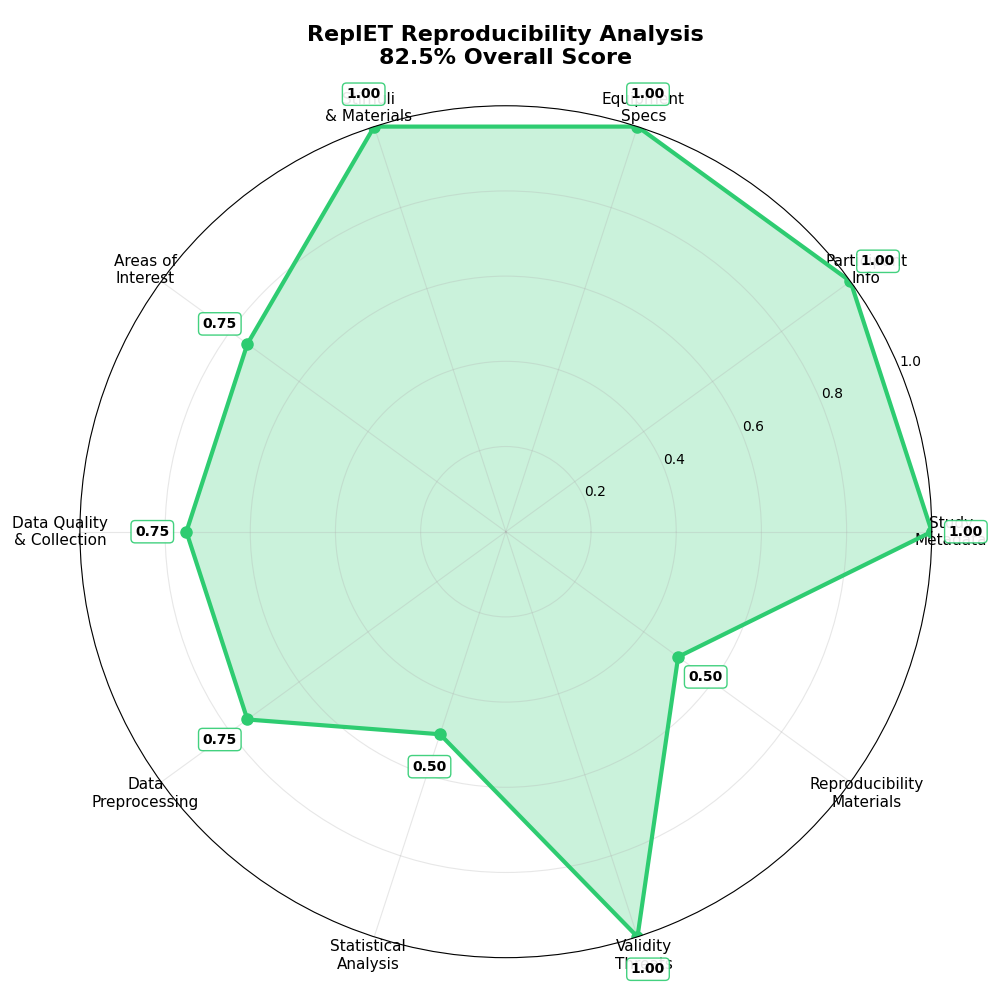
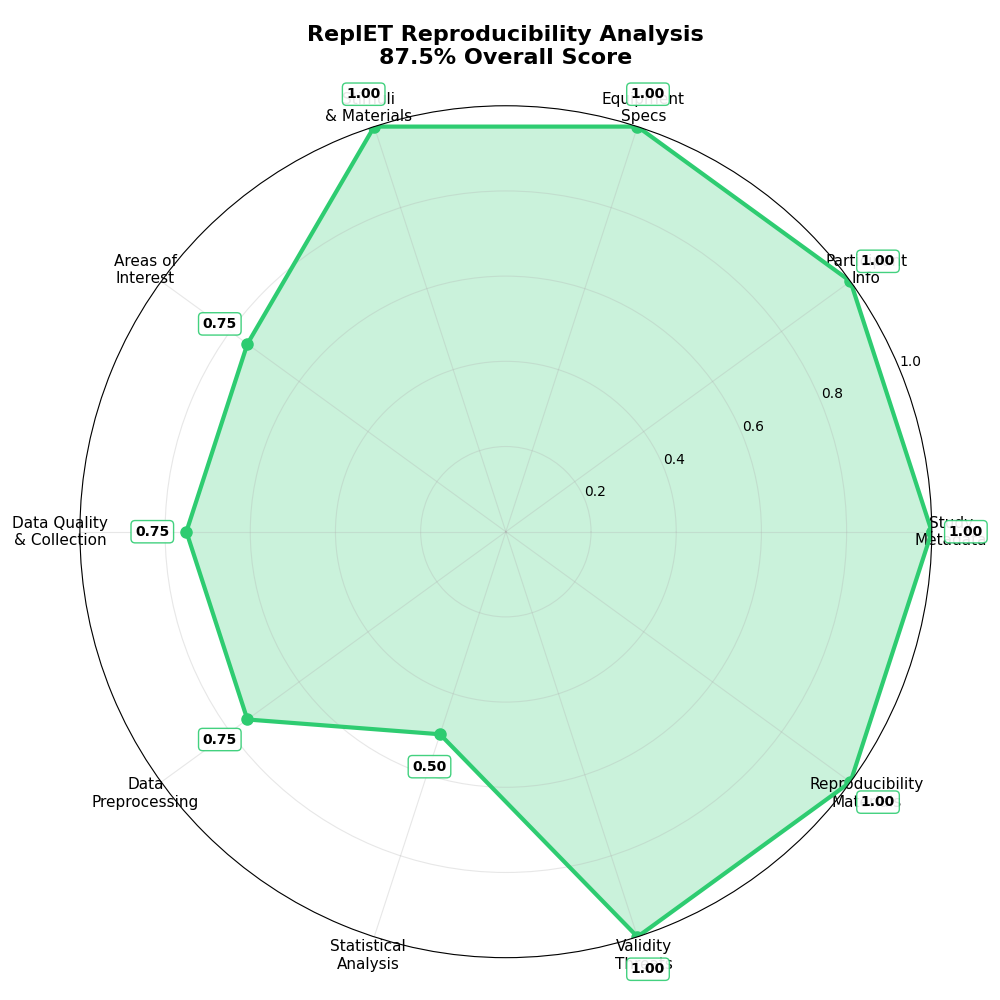
feat: adapt scripts and readme

Changed region(s): [[0.62, 0.527, 0.93, 0.93]]

diff --git a/utils/repl_et_score.py b/utils/repl_et_score.py
@@ -7,7 +7,7 @@ import numpy as np
 
 def check_metadata():
     try:
-        with open("ReplET/metadata.json") as f:
+        with open("metadata.json") as f:
             data = json.load(f)
         required = ["study_title", "paradigm", "task_description"]
         if all(k in data and data[k] for k in required):
@@ -20,7 +20,7 @@ def check_metadata():
         return 0
 
 def check_participants():
-    path = "ReplET/participants/participants.json"
+    path = "participants/participants.json"
     if not os.path.exists(path):
         return 0
     try:
@@ -39,7 +39,7 @@ def check_participants():
         return 0
 
 def check_equipment():
-    files = ["ReplET/equipment/tracker_specs.json", "ReplET/equipment/screen_setup.json", "ReplET/equipment/software_env.json"]
+    files = ["equipment/tracker_specs.json", "equipment/screen_setup.json", "equipment/software_env.json"]
     found = sum(os.path.exists(f) for f in files)
     if found == 3:
         return 1.0
@@ -51,9 +51,9 @@ def check_equipment():
         return 0
 
 def check_stimuli():
-    meta = "ReplET/stimuli/stimuli_metadata.json"
-    ann = "ReplET/stimuli/stimuli_annotations.json"
-    raw = "ReplET/stimuli/stimuli_raw"
+    meta = "stimuli/stimuli_metadata.json"
+    ann = "stimuli/stimuli_annotations.json"
+    raw = "stimuli/stimuli_raw"
     score = 0
     if os.path.exists(meta):
         score += 0.4
@@ -64,8 +64,8 @@ def check_stimuli():
     return min(score, 1.0)
 
 def check_aois():
-    aois = "ReplET/aois/aois_definition.json"
-    vis = "ReplET/aois/aois_visualizations"
+    aois = "aois/aois_definition.json"
+    vis = "aois/aois_visualizations"
     if os.path.exists(aois):
         if os.path.isdir(vis) and len(os.listdir(vis)) > 0:
             return 1.0
@@ -75,8 +75,8 @@ def check_aois():
         return 0
 
 def check_data_quality():
-    proto = "ReplET/collection/protocol.json"
-    logs = "ReplET/collection/logs"
+    proto = "collection/protocol.json"
+    logs = "collection/logs"
     if os.path.exists(proto):
         if os.path.isdir(logs) and len(os.listdir(logs)) > 0:
             return 1.0
@@ -86,8 +86,8 @@ def check_data_quality():
         return 0
 
 def check_preprocessing():
-    pre = "ReplET/preprocessing/preprocessing.json"
-    scripts = "ReplET/preprocessing/scripts"
+    pre = "preprocessing/preprocessing.json"
+    scripts = "preprocessing/scripts"
     if os.path.exists(pre):
         if os.path.isdir(scripts) and len(os.listdir(scripts)) > 0:
             return 1.0
@@ -97,20 +97,20 @@ def check_preprocessing():
         return 0
 
 def check_analysis():
-    ana = "ReplET/analysis/analysis.json"
-    tables = "ReplET/analysis/results_tables"
-    vis = "ReplET/analysis/visualizations"
+    ana = "analysis/analysis.json"
+    tables = "analysis/results_tables"
+    vis = "analysis/visualizations"
     score = 0
     if os.path.exists(ana):
         score += 0.5
-    if os.path.isdir(tables) and len(os.listdir(tables)) > 0:
+    if os.path.exists(tables) and len(os.listdir(tables)) > 0:
         score += 0.25
-    if os.path.isdir(vis) and len(os.listdir(vis)) > 0:
+    if os.path.exists(vis) and len(os.listdir(vis)) > 0:
         score += 0.25
     return min(score, 1.0)
 
 def check_threats():
-    val = "ReplET/validity/validity.json"
+    val = "validity/validity.json"
     if os.path.exists(val):
         with open(val) as f:
             data = json.load(f)
@@ -122,7 +122,7 @@ def check_threats():
         return 0
 
 def check_reproducibility():
-    files = ["ReplET/README.md", "ReplET/LICENSE", "ReplET/reproducibility/environment.yml", "ReplET/reproducibility/CITATION.cff", "ReplET/repl_et_checklist.md"]
+    files = ["README.md", "LICENSE", "reproducibility/reproducibility.json", "CITATION.cff"]
     found = sum(os.path.exists(f) for f in files)
     if found == len(files):
         return 1.0
@@ -134,6 +134,123 @@ def check_reproducibility():
         return 0.25
     else:
         return 0
+
+def update_readme_with_assessment(scores, overall_score, png_path):
+    """Update README.md with current assessment results"""
+    try:
+        # Map scores to readable names
+        score_mapping = {
+            "metadata": "Study Metadata",
+            "participants": "Participant Info", 
+            "equipment": "Equipment Specs",
+            "stimuli": "Stimuli & Materials",
+            "aois": "Areas of Interest",
+            "data_quality": "Data Quality & Collection",
+            "preprocessing": "Data Preprocessing",
+            "analysis": "Statistical Analysis",
+            "threats": "Validity Assessment",
+            "reproducibility": "Reproducibility Materials"
+        }
+        
+        # Calculate compliance
+        compliant_criteria = sum(1 for score in scores.values() if score > 0.8)
+        total_criteria = len(scores)
+        compliance_percentage = (compliant_criteria / total_criteria) * 100 if total_criteria > 0 else 0
+        
+        # Determine status
+        if compliance_percentage >= 80:
+            template_status = "Complete"
+            result_message = "Publication Ready"
+        elif compliance_percentage >= 50:
+            template_status = "In Progress"  
+            result_message = "Good Progress"
+        else:
+            template_status = "Starting"
+            result_message = "Empty Template" if compliance_percentage < 30 else "Basic Setup"
+        
+        # Generate checklist markdown
+        checklist_items = []
+        for component, score in scores.items():
+            status = "✅" if score > 0.8 else "⚠" if score > 0.5 else "❌"
+            readable_name = score_mapping.get(component, component.replace("_", " ").title())
+            checklist_items.append(f"- {status} **{readable_name}**: {score*100:.1f}%")
+        
+        checklist_md = f"""## 📋 Compliance Checklist
+
+**Status**: {template_status} ({result_message})  
+**Overall Compliance**: {compliant_criteria}/{total_criteria} criteria met ({compliance_percentage:.1f}%)
+
+### Component Scores:
+{chr(10).join(checklist_items)}
+
+### Legend:
+- ✅ **Complete** (>80%): Publication ready
+- ⚠ **Partial** (50-80%): Good progress, needs refinement  
+- ❌ **Missing** (<50%): Requires attention
+
+---
+"""
+        
+        # Generate scores table
+        rows = []
+        for component, score in scores.items():
+            readable_name = score_mapping.get(component, component.replace("_", " ").title())
+            rows.append(f"| {readable_name} | {score*100:.1f}% |")
+        
+        scores_table_md = f"""
+| Study Component | Score |
+|----------------|-------|
+{chr(10).join(rows)}
+| **Overall Study Score** | **{overall_score*100:.1f}%** |
+"""
+        
+        # Read current README
+        readme_path = 'README.md'
+        if os.path.exists(readme_path):
+            with open(readme_path, 'r', encoding='utf-8') as f:
+                content = f.read()
+        else:
+            content = "# Study Assessment\n\n"
+        
+        # Update checklist section
+        import re
+        checklist_pattern = r'(## 📋 Compliance Checklist.*?)(?=##|\Z)'
+        if re.search(checklist_pattern, content, re.DOTALL):
+            content = re.sub(checklist_pattern, checklist_md + '\n', content, flags=re.DOTALL)
+        else:
+            # Find the Template Compliance Analysis section and add after it
+            template_section = "## Template Compliance Analysis"
+            if template_section in content:
+                content = content.replace(template_section, template_section + '\n\n' + checklist_md)
+            else:
+                content += '\n' + checklist_md + '\n'
+        
+        # Update scores table section  
+        scores_pattern = r'(\| Study Component \| Score.*?\*\*Overall Study Score.*?\*\*[^\n]*)'
+        if re.search(scores_pattern, content, re.DOTALL):
+            content = re.sub(scores_pattern, scores_table_md.strip(), content, flags=re.DOTALL)
+        else:
+            # Add scores table after checklist
+            content += '\n' + scores_table_md + '\n'
+        
+        # Update spider graph image
+        spider_pattern = r'!\[Reproducibility Spider Graph\]\([^)]+\)'
+        spider_replacement = f'![Reproducibility Spider Graph]({png_path})'
+        if re.search(spider_pattern, content):
+            content = re.sub(spider_pattern, spider_replacement, content)
+        else:
+            content += f'\n{spider_replacement}\n'
+        
+        # Write updated README
+        with open(readme_path, 'w', encoding='utf-8') as f:
+            f.write(content)
+        
+        print(f"📝 README.md updated with assessment results!")
+        print(f"📊 Compliance: {compliant_criteria}/{total_criteria} ({compliance_percentage:.1f}%)")
+        print(f"🏷 Status: {template_status}")
+        
+    except Exception as e:
+        print(f"⚠ Warning: Could not update README: {e}")
 
 def main():
     scores = {
@@ -149,10 +266,10 @@ def main():
         "reproducibility": check_reproducibility()
     }
     
-    # Create temporary output directory
-    import tempfile
+    # Create output directory
     import os
-    output_dir = tempfile.mkdtemp(prefix="replet_report_")
+    output_dir = "outputs"
+    os.makedirs(output_dir, exist_ok=True)
     
     # Salva JSON
     json_path = os.path.join(output_dir, "report.json")
@@ -241,6 +358,9 @@ def main():
     # Calculate overall score
     overall_score = sum(scores.values()) / len(scores)
     print(f"\n🏆 Overall Reproducibility Score: {overall_score:.3f}/1.0 ({overall_score*100:.1f}%)")
+    
+    # Update README with assessment
+    update_readme_with_assessment(scores, overall_score, png_path)
 
 if __name__ == "__main__":
     main() 

diff --git a/README.md b/README.md
@@ -4,71 +4,42 @@ EMIP (Eye Movement in Programming) dataset converted to the standardized REPL.et
 
 ## Template Compliance Analysis
 
-Run `python3 utils/update_readme_with_assessment.py` to update this analysis with your current template status.
+## 📋 Compliance Checklist
 
-### Research Standards Compliance
+**Status**: In Progress (Good Progress)  
+**Overall Compliance**: 6/10 criteria met (60.0%)
 
-```
-TEMPLATE COMPLIANCE STATUS
+### Component Scores:
+- ✅ **Study Metadata**: 100.0%
+- ✅ **Participant Info**: 100.0%
+- ✅ **Equipment Specs**: 100.0%
+- ✅ **Stimuli & Materials**: 100.0%
+- ⚠ **Areas of Interest**: 75.0%
+- ⚠ **Data Quality & Collection**: 75.0%
+- ⚠ **Data Preprocessing**: 75.0%
+- ❌ **Statistical Analysis**: 50.0%
+- ✅ **Validity Assessment**: 100.0%
+- ✅ **Reproducibility Materials**: 100.0%
 
-FAIR Principles                    iGuidelines Compliance
-├─ [ ] Findable (JSON + metadata)      ├─ [ ] Participant templates
-├─ [ ] Accessible (open formats)       ├─ [ ] Calibration procedures  
-├─ [ ] Interoperable (schemas)         ├─ [ ] Exclusion criteria
-└─ [ ] Reusable (rich metadata)        └─ [x] Quality metrics
+### Legend:
+- ✅ **Complete** (>80%): Publication ready
+- ⚠ **Partial** (50-80%): Good progress, needs refinement  
+- ❌ **Missing** (<50%): Requires attention
 
-Research Standards                 TRRRACED Framework
-├─ [ ] Study design templates          ├─ [ ] Transparent reporting
-├─ [ ] Equipment specifications        ├─ [x] Replication materials
-├─ [x] Stimuli documentation           ├─ [x] Data availability
-├─ [x] Methodology transparency        └─ [ ] Environment specs  
-└─ [ ] Validity assessment
+---
 
-COMPLIANCE STATUS: 4/17 criteria met
-TEMPLATE STATUS: Empty Template  
-RESULT: Fill template with real study data to achieve compliance
-```
 
-## Reproducibility Spider Graph
+| Study Component | Score |
+|----------------|-------|
+| Study Metadata | 100.0% |
+| Participant Info | 100.0% |
+| Equipment Specs | 100.0% |
+| Stimuli & Materials | 100.0% |
+| Areas of Interest | 75.0% |
+| Data Quality & Collection | 75.0% |
+| Data Preprocessing | 75.0% |
+| Statistical Analysis | 50.0% |
+| Validity Assessment | 100.0% |
+| Reproducibility Materials | 100.0% |
+| **Overall Study Score** | **87.5%** |
 
-![Reproducibility Spider Graph](reproducibility_spider_graph.png)
-
-### Scores by Component
-
-| Template Component | Score | Spider Graph Dimension |
-|-------------------|-------|------------------------|
-| `metadata.json` | 5% | Study Metadata |
-| `participants/` | 5% | Participant Information |
-| `equipment/` | 5% | Equipment Specifications |
-| `stimuli/` | 5% | Stimuli & Materials |
-| `aois/` | 5% | Areas of Interest |
-| `collection/` | 5% | Data Quality |
-| `preprocessing/` | 5% | Data Preprocessing |
-| `analysis/` | 5% | Statistical Analysis |
-| `validity/` | 5% | Validity Assessment |
-| `reproducibility/` | 5% | Reproducibility Materials |
-
-**Overall Template Score: 5.0%** (Empty Template - Fill with Real Study Data)
-
-## Generate Updated Analysis
-
-```bash
-# Install requirements (one-time setup)
-pip install matplotlib numpy
-
-# Update this README with current template status
-python3 utils/update_readme_with_assessment.py
-```
-
-## Citation
-
-```bibtex
-@software{silva2024replet,
-  title = {Repl.ET: Eye Tracking Research Template},
-  author = {Silva, Lucas},
-  year = {2024},
-  url = {https://github.com/fratelus/Repl.ET},
-  version = {2.0.0},
-  note = {Template for reproducible eye tracking research}
-}
-``` 

diff --git a/outputs/report.md b/outputs/report.md
@@ -9,6 +9,6 @@
 - **preprocessing**: 0.75
 - **analysis**: 0.5
 - **threats**: 1.0
-- **reproducibility**: 0.5
+- **reproducibility**: 1.0
 
 Veja score.png para o gráfico radar.
